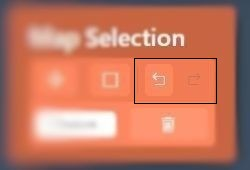
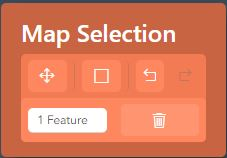
Edited
Picture size change, and editing info

diff --git a/src/manuals/Steps.html b/src/manuals/Steps.html
@@ -13,7 +13,7 @@
     <p>
         You can choose to draw your own area of extraction by drawing on the map API.  
     </p>
-    <img alt="variable" src="img/Choice_area.JPG" width="550" height="380"/>
+    <img alt="variable" src="img/area_selection.jpg"/>
     <br> <br/>
     <li>
         Zooming
@@ -21,15 +21,15 @@
     <p>
         You can zoom in and out of the map by scrolling your mouse or hitting the plus/minus button.  
     </p>
-    <img alt="variable" src="img/zoom.jpg" width="500" height="333"/>
+    <img alt="variable" src="img/zoom.jpg"/>
     <br> <br/>
     <li>
         Undoing
     </li>
     <p>
-        You can Undo and Redo your action by hitting the button inside the area selection box.  
+        You can Undo and Redo your action by hitting the left or right arrow button inside the Map selection box.  
     </p>
-    <img alt="variable" src="img/undo.jpg" width="500" height="333"/>
+    <img alt="variable" src="img/undo.jpg"/>
     <br> <br/>
     <h><b>Step 2 - Time & Variable</b></h>
     <br><br/>
@@ -40,7 +40,7 @@
         There are hundreds of the variables in the variable list, each variable presents a kind of climate data. 
         You can click the cycle which following the variable name to select the variables for your data set.
     </p>
-    <img alt="variable" src="img/variable_area.JPG" width="800" height="300"/>
+    <img alt="variable" src="img/variable_area.JPG"/>
     <br> <br/>
     <li>
         Variable filter
@@ -50,7 +50,7 @@
         Entre the first few letters of the variable name in the filter text box, 
         the variable list will show the variables which name match your typing in the filter box.   
     </p>
-    <img alt="variable" src="img/filter.JPG" width="900" height="200"/>
+    <img alt="variable" src="img/filter.JPG"/>
     <br> <br/>
     <li>
         Time area
@@ -61,22 +61,23 @@
         The selection means the data includes variable information between 20th May 1999 to 10th June 2000. 
         If you want to get just one day climate data, you can select the same day which you wanted for both start date and end date.  
     </p>
-    <img alt="variable" src="img/Time_period.JPG" width="300" height="200"/>
+    <img alt="variable" src="img/Time_period.JPG"/>
+    <br> <br/>
+
+    <li>
+        Time Resolution
+    </li>
+    <p>
+        Time resolution is where the climate futures data is collected by real world stations, 
+        and they may record data every hour, every day, every month etc. It helps filter those data according to your needs.
+        You can select any this of the option, but when you get the data it actually retrieves data of all time resolutions and sorts it in the pop up download box.
+    </p>
+    <img alt="variable" src="img/time_resolution.JPG"/>
     <br> <br/>
 
     <h><b>Step 3 - Summary & Download</b></h>
     <br> <br/>
-    <li>
-        Evaluation size area 
-    </li>
-    <p>
-        You can choose the file form for your wanted data, then the application will evaluate the size of the data. 
-        That information will help you evaluate how much time will be taken to download the data by your internet situation and restrict the size of the data. 
-        Any data size excesses 90G that is not approved to download. 
-        The strict rule is by climate database to avoid overload.
-    </p>
-    <img alt="variable" src="img/Data_size.JPG" width="400" height="150"/>
-    <br> <br/>
+
     <li>
         Summary area
     </li>
@@ -86,7 +87,16 @@
         The function provides a chance to avoid human mistake before you download the data – commonly, the climate data is very large that means it will take you a lot of time. 
         If you get the data which is not you wanted, the download time has been wasted.    
     </p>
-    <img alt="variable" src="img/ensemble_part.JPG" width="700" height="333"/>
- 
+    <img alt="variable" src="img/ensemble_part.JPG"/>
+
+    <li>
+        Download area 
+    </li>
+    <p>
+        Here all the downloadable files will be shown.
+        Even if you select a specific time resolution (e.g. hourly) before procceding to download option you will still have
+        access to other time resolution tabs but it will automatically select the tab (e.g. hourly) that you have chose before. 
+    </p>
+    <img alt="variable" src="img/summary_download.JPG"/>
 </body>
 </html>

diff --git a/src/manuals/Introduction.html b/src/manuals/Introduction.html
@@ -8,7 +8,7 @@
     <h><b>Introduction</b></h>
     <p>
         Climate Futures is basically a data portal which is used for providing climate related data to anyone based upon request. 
-        This vary idea was initiated by The Climate Future Team to bring a faster data processing system.
+        This very idea was initiated by The Climate Future Team to bring a faster data processing system.
         This web-based application contains a front-end that would allow you 
         to discover what data is available and extract what you desire.
     </p>
@@ -19,36 +19,20 @@
             <li>      
                 Variables: humidity, temperature, wind direction, etc. There are up to 100 variables.
             </li>
-            <img alt="variable" src="img/Variable.jpg" width="700" height="333"/>
-            <br>
-            <br/>
             <li>
                 Spatial extent: single location, a bounding box, or a defined polygon (geospatial file).           
             </li>
-            <br>
-            <img alt="variable" src="img/Spatial_extent.JPG" width="400" height="150"/>
-            <br>
-            <br/>
             <li>
                 Time period: single time slice, or a period of time from start to end that is defined by you.
             </li>
-            <br>
-            <img alt="variable" src="img/Time_period.JPG" width="400" height="150"/>
-            <br>
-            <br/>
             <li>
-                Ensemble part: all models or only a subset.                      
+                Time resolution helps to sort the real time data which might be added every hour,day or month.                      
             </li>
-            <br>
-            <img alt="variable" src="img/ensemble_part.JPG" width="700" height="333"/>
-            <br>
-            <br/>
         </ul>
     </p>
 
     <p>
-        Futhermore, the system will inform you of the approximate data request size prior to initiating extraction.
-    </p>
-    <img alt="variable" src="img/Data_size.JPG" width="400" height="150"/>
+        Futhermore, There is a search option if you wish to filter particular variable. 
+        After all the selection is done a new page will showcase a summary of all the selections you made. 
 </body>
 </html>

diff --git a/src/manuals/Interface.html b/src/manuals/Interface.html
@@ -16,9 +16,9 @@
 <p>
 This area contains the section where you can proceed your location selection for data extraction. 
 It contains a map API from ArcGIS and functionality the team implements to help you choose area of your choice, 
-either by square or importing a shapefile. 
+by marking with square. 
 </p>
-<img alt="variable" src="img/Area_selection.JPG" width="500" height="333"/>
+<img alt="variable" src="img/Area_selection.JPG"/>
 <br>
 <br/>
 <li>
@@ -29,8 +29,10 @@ either by square or importing a shapefile.
     you can then proceed to choose time period and variables.
     Time period contains a timespan of 2 checkpoint. 
     There are over a hundred variables to choose from so you can use the search functionality to search for your desired variables.
+    Time resolution is where  the climate futures data is collected by real world stations, 
+    and they may record data every hour, every day, every month etc,
 </p>
-<img alt="variable" src="img/Time_variable.JPG" width="500" height="333"/>
+<img alt="variable" src="img/Time_variable.JPG"/>
 <br>
 <br/>
 <li>
@@ -38,8 +40,10 @@ either by square or importing a shapefile.
 </li>
 <p>
     This area contains the information about your downloads. 
-    It sums up your chosen area by geographical degree, the timespan and the estimated download.    
+    It sums up your chosen area by geographical degree and the timespan.
+    even if you select a specific time resolution before procceding to download option you will still have
+    access to other time resolution tabs but it will automatically select the tab that you have chose before.     
 </p>
-<img alt="variable" src="img/summary_download.JPG" width="700" height="333"/>
+<img alt="variable" src="img/summary_download.JPG"/>
 </body>
 </html>
